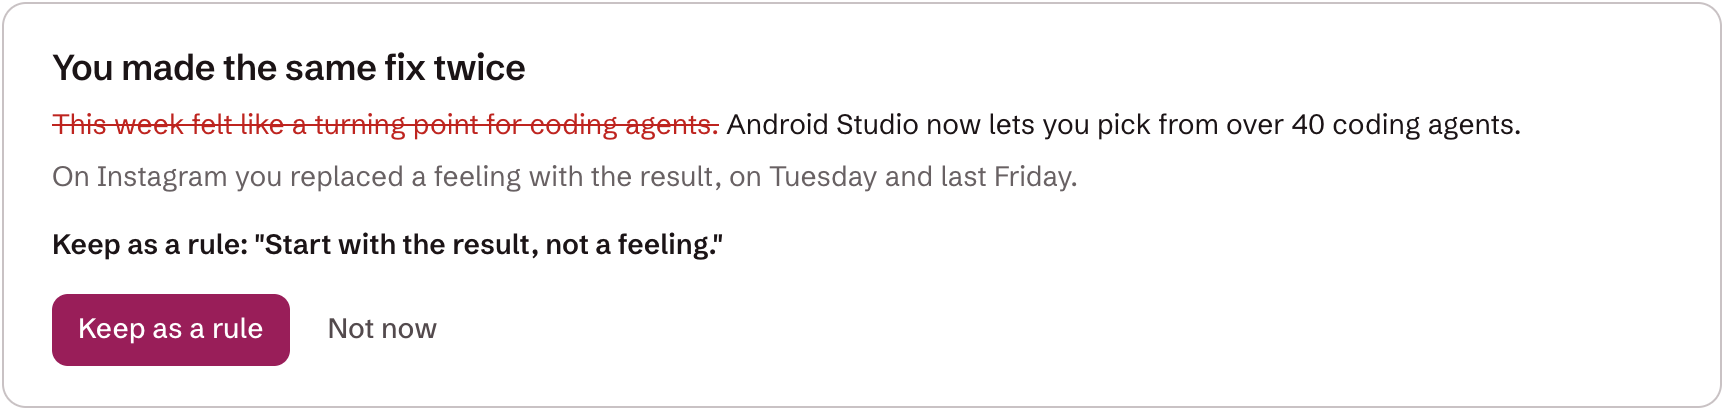
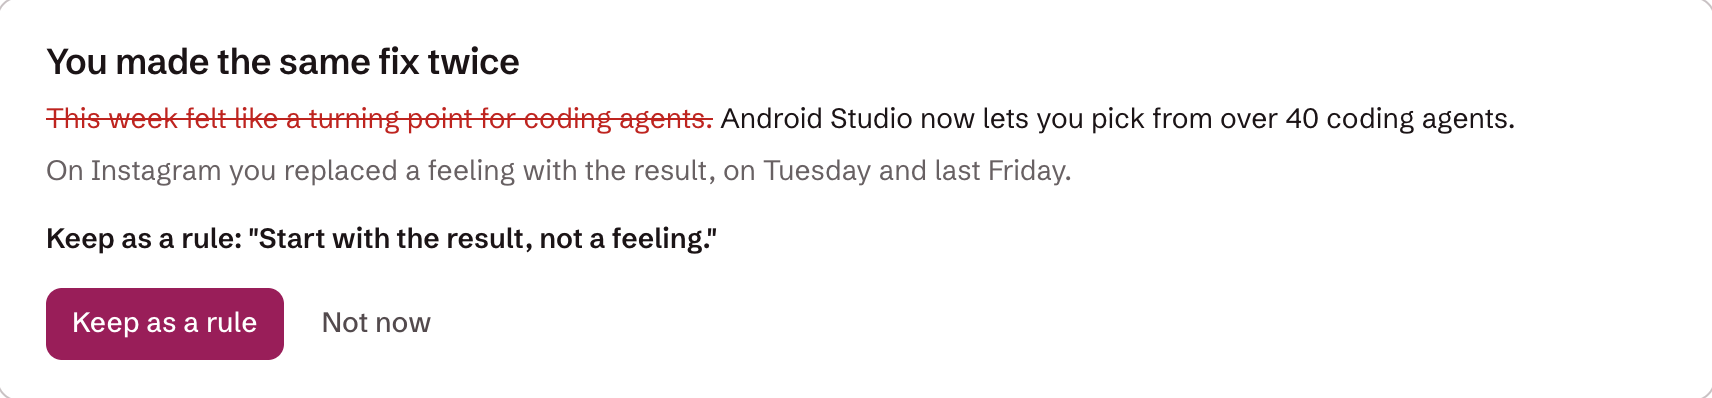
feat(landing): Bring the Pilot back to the alternative hero, bigger
The owner wanted the animated Pilot in the new hero, larger, with the same lines on the buttons, and found a double border on the same-fix-twice card. The Pilot component can now stand without its example week; the hero puts it beside the copy at up to 260px with the same data-pilot-say lines. The card capture is cropped inside its own border so only the frame's edge shows.

- src/components/landing/pilot-week.tsx: week prop (default true) and className
- src/app/(landing)/home/page.tsx, page.module.css: Pilot in the hero, button lines back
- public/landing/screens/same-fix-twice.png: cropped inside the card's border

diff --git a/src/app/(landing)/home/page.tsx b/src/app/(landing)/home/page.tsx
@@ -3,6 +3,7 @@ import type { ReactNode } from "react";
 import Image from "next/image";
 import { Accordion } from "@/registry/components/accordion/accordion";
 import button from "@/registry/components/button/button.module.css";
+import { PilotWeek } from "@/components/landing/pilot-week";
 import { PixelField } from "@/components/landing/pixel-field";
 import { AiStrip } from "@/components/landing/ai-strip";
 import { PilotMark } from "@/components/landing/pilot-mark";
@@ -67,10 +68,11 @@ export default function HomePage() {
               <h1 id="hero-title">Your Buffer week, written from <HandUnderline>your own work</HandUnderline>.</h1>
               <p className={s.lede}>Any AI drafts posts from your newsletter. Queue Pilot checks each one against your rules before it reaches Buffer.</p>
               <div className={s.ctas}>
-                <LinkButton href={SIGN_IN} kind="primary">Sign in with Buffer</LinkButton>
-                <LinkButton href={DEMO} kind="secondary">Try the demo</LinkButton>
+                <LinkButton href={SIGN_IN} kind="primary" say="Sign in and I will show you your empty times.">Sign in with Buffer</LinkButton>
+                <LinkButton href={DEMO} kind="secondary" say="No sign-in. Alex's sample account, the same app with sample data.">Try the demo</LinkButton>
               </div>
             </div>
+            <PilotWeek week={false} className={s.heroPilot} />
             <figure className={[s.shot, s.heroShot].join(" ")}>
               <Image src="/landing/screens/next-week.png" alt="Queue Pilot's Next week screen: drafts by account and day, ready to approve, one blocked" width={2400} height={1640} priority sizes="(max-width: 1240px) 100vw, 1200px" />
             </figure>
@@ -104,7 +106,7 @@ export default function HomePage() {
               <p>Make the same edit in Buffer twice and Queue Pilot offers it as a rule, for every AI you use.</p>
             </div>
             <figure className={[s.shot, s.cardShot].join(" ")}>
-              <Image src="/landing/screens/same-fix-twice.png" alt="Queue Pilot noticed the same fix twice and offers: Start with the result, not a feeling" width={1724} height={410} sizes="(max-width: 1000px) 100vw, 720px" />
+              <Image src="/landing/screens/same-fix-twice.png" alt="Queue Pilot noticed the same fix twice and offers: Start with the result, not a feeling" width={1712} height={398} sizes="(max-width: 1000px) 100vw, 720px" />
             </figure>
           </div>
         </section>

diff --git a/src/components/landing/pilot-week.tsx b/src/components/landing/pilot-week.tsx
@@ -26,7 +26,8 @@ const DAYS: { day: string; slots: Slot[] }[] = [
 
 const clamp = (v: number, lo: number, hi: number) => Math.min(hi, Math.max(lo, v));
 
-export function PilotWeek() {
+/** `week={false}` draws the Pilot alone, without the example week, for a hero that shows the real app below it. */
+export function PilotWeek({ week = true, className }: { week?: boolean; className?: string } = {}) {
   const [states, setStates] = useState<SlotState[]>(() => DAYS.flatMap((d) => d.slots.map((s) => s.state)));
   const [line, setLine] = useState("");
   // The full line, set once, for screen readers; the typed bubble is hidden from them.
@@ -85,7 +86,7 @@ export function PilotWeek() {
 
     // A still visitor: look at an empty slot, fill it with a draft, look back. A full week starts over.
     const idle = reduce ? 0 : window.setInterval(() => {
-      if (document.hidden || busy || look.current || performance.now() - lastMove < 2400) return;
+      if (!week || document.hidden || busy || look.current || performance.now() - lastMove < 2400) return;
       // Only slots on screen: phones hide Thu and Fri, and the Pilot must not stare at a hidden one.
       const empty = statesRef.current.flatMap((st, i) => (st === "empty" && slotRefs.current[i]?.offsetParent ? [i] : []));
       if (!empty.length) { setStates(DAYS.flatMap((d) => d.slots.map((x) => x.state))); return; }
@@ -133,7 +134,7 @@ export function PilotWeek() {
 
   let index = 0;
   return (
-    <div className={styles.root} ref={root}>
+    <div className={[styles.root, className].filter(Boolean).join(" ")} ref={root}>
       <div ref={pilot} className={styles.pilot}>
         <span className={styles.say} data-show={talking || undefined} aria-hidden="true">{line}</span>
         <span className={styles.sr} role="status">{announce}</span>
@@ -151,7 +152,7 @@ export function PilotWeek() {
         </svg>
       </div>
 
-      <div className={styles.week} aria-label="Example Buffer week">
+      {week ? <div className={styles.week} aria-label="Example Buffer week">
         <div className={styles.head}><b>Next week</b><span>Alex Rivera, demo</span></div>
         <div className={styles.days}>
           {DAYS.map((d) => (
@@ -170,7 +171,7 @@ export function PilotWeek() {
             </div>
           ))}
         </div>
-      </div>
+      </div> : null}
     </div>
   );
 }

diff --git a/src/app/(landing)/home/page.module.css b/src/app/(landing)/home/page.module.css
@@ -121,6 +121,10 @@
 /* v2: the hero stacks copy over one real screen; every product picture is a real capture in the same frame. */
 .heroStack { position: relative; z-index: 1; display: grid; gap: clamp(40px, 5vw, 64px); padding-block: clamp(48px, 6vw, 88px) 0 }
 .heroStack .heroCopy h1 { max-width: 16ch }
+/* Copy left, the Pilot right and bigger than before; the real screen spans both columns below. */
+@media (min-width: 901px) { .heroStack { grid-template-columns: minmax(0, 1fr) auto } .heroStack > figure { grid-column: 1 / -1 } }
+.heroPilot { --pw: clamp(180px, 20vw, 260px); align-self: end; padding-right: clamp(0px, 4vw, 64px) }
+@media (max-width: 900px) { .heroPilot { display: none } }
 .shot { margin: 0; border-radius: 16px; overflow: hidden; background: var(--surface); box-shadow: 0 0 0 1px var(--border), 0 24px 60px -24px oklch(0.35 0.08 357 / 0.28) }
 .shot img { display: block; width: 100%; height: auto }
 .heroShot { margin-bottom: calc(var(--section) * -0.6); position: relative; z-index: 1 }
